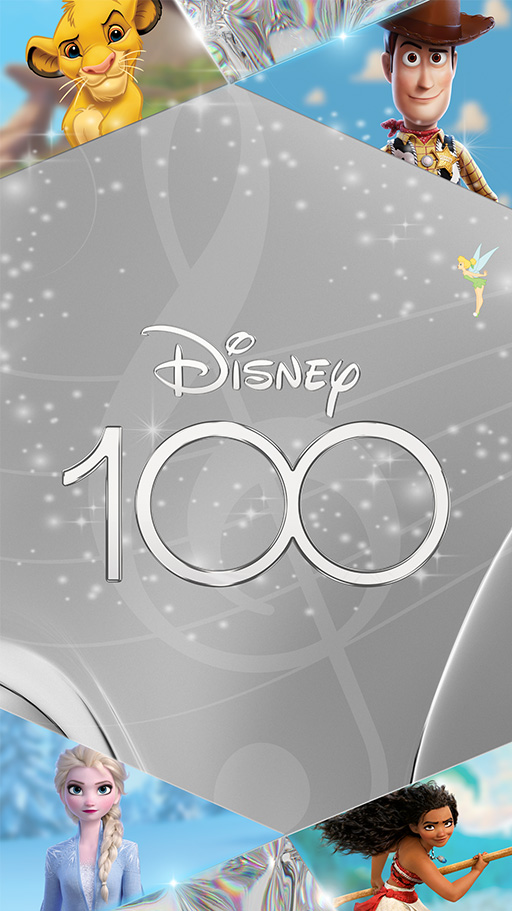
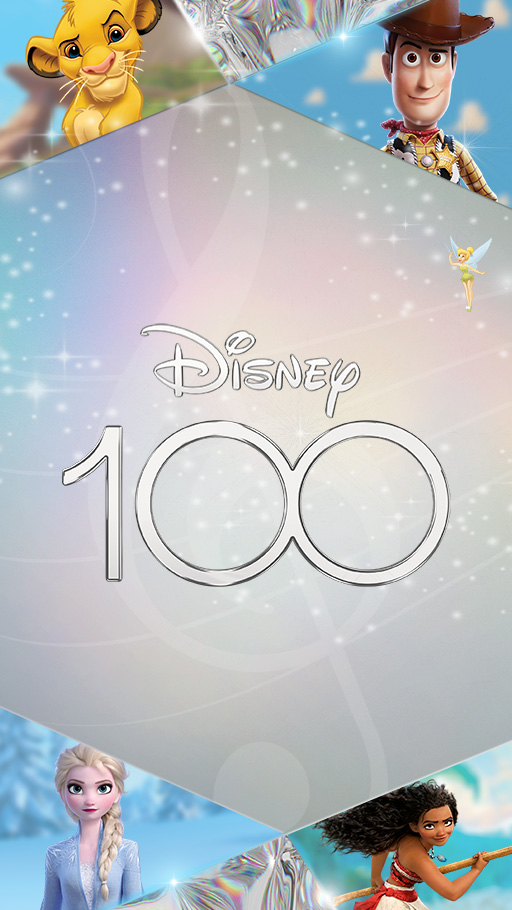
add tinker bell images

diff --git a/_sass/main.scss b/_sass/main.scss
@@ -95,12 +95,58 @@ body {
   }
   &.prize-background{
     background-image: url(../images/bg-prizes.jpg);
+    .scan-new-code{
+      position: relative;
+      &::after{
+        content: url(../images/tinker-bell-wand.png);
+        position: absolute;
+        transform: scale(0.2) scaleX(-1);
+        left: -67px;
+        top: -178px;
+      }
+    }
   }
   &.playlist-background{
     background-image: url(../images/bg-playlist.jpg);
+    .prizes{
+      position: relative;
+      &.share{
+        margin-top: 10vh;
+      }
+      &::after{
+        content: url(../images/tinker-bell-wand.png);
+        position: absolute;
+        transform: scale(0.25);
+        right: -47px;
+        top: -194px;
+      }
+    }
   }
   &.fact-background{
     background-image: url(../images/bg-fact.jpg);
+    .scan-new-code{
+      position: relative;
+      &::after{
+        content: url(../images/tinker-bell-wand.png);
+        position: absolute;
+        transform: scale(0.25);
+        right: -67px;
+        top: -178px;
+      }
+    }
+    &.share{
+      .fact{
+        position: relative;
+        margin-top: 60px;
+        &::after{
+          content: url(../images/tinker-bell.png);
+          position: absolute;
+          transform: scale(0.25);
+          right: -87px;
+          top: -176px;
+        }
+      }
+    }
   }
 }
 .home-layout{
@@ -308,6 +354,8 @@ h1{
     margin-bottom: -12px;
     margin-left: -6px;
     margin-right: -6px;
+    display: flex;
+    flex-flow: column;
     &.plist{
       padding-top:20px;
     }
@@ -322,8 +370,13 @@ h1{
         max-width: 100%;
       }
     }
+    .mickey-divider{
+      max-width: 60%;
+      margin: auto;
+    }
   }
 }
+
 .two-column{
   display: flex;
   margin-top: 20px;

diff --git a/_layouts/fact-share.html b/_layouts/fact-share.html
@@ -1,7 +1,7 @@
 <html>
 {% include head.html %}
 <body>
-    <section class="site-wrapper fact-background">
+    <section class="site-wrapper fact-background share">
         <section class="fact">
             <img class="header-image" src="/assets/images/disney-100-logo.png">
              <p style="color:black; text-align:center; width: 75%;margin:auto;margin-bottom:20px;">Your friend is celebrating Disney 100 Years of Musical Wonder, and wanted to share the magic with you!</p>

diff --git a/prizes-share.md b/prizes-share.md
@@ -14,13 +14,14 @@ bgclass: prize-background
         <div class="two-column">
             <div class="col1">
                 Redeemable online only at:
-                 <a href="https://www.disneymusicemporium.com" target="_blank">www.disneymusicemporium.com</a>
+                 <a href="https://www.disneymusicemporium.com" target="_blank">disneymusicemporium.com</a>
                  <span style="font-size:0.8em;">Hurry! Valid only from 9/12 - 9/18</span>
             </div>
             <div class="col2">
                 <img src="/assets/images/disney-music-emporium.png">
             </div>
         </div>
+        <img class="mickey-divider" src="/assets/images/mickey-divider.png">
         <h2>EXCLUSIVE DOWNLOADS</h2>
         <div class="two-column">
             <div class="col1">

diff --git a/prizes.md b/prizes.md
@@ -14,13 +14,14 @@ bgclass: prize-background
         <div class="two-column">
             <div class="col1">
                 Redeemable online only at:
-                 <a href="https://www.disneymusicemporium.com" target="_blank">www.disneymusicemporium.com</a>
+                 <a href="https://www.disneymusicemporium.com" target="_blank">disneymusicemporium.com</a>
                  <span style="font-size:0.8em;">Hurry! Valid only from 9/12 - 9/18</span>
             </div>
             <div class="col2">
                 <img src="/assets/images/disney-music-emporium.png">
             </div>
         </div>
+        <img class="mickey-divider" src="/assets/images/mickey-divider.png">
         <h2>EXCLUSIVE DOWNLOADS</h2>
         <div class="two-column">
             <div class="col1">

diff --git a/playlists-share.md b/playlists-share.md
@@ -5,7 +5,7 @@ description: All the musical memories from the 100 Years of Music timeline, cura
 bgclass: playlist-background
 ---
 <div style="margin-top:40px;" class="hide-tall"></div>
-<section class="prizes">
+<section class="prizes share">
     <img class="header-image" src="/assets/images/disney-100-logo.png">
     <p style="color:black; text-align:center; width: 75%;margin:auto;margin-bottom:20px;">Your friend is celebrating Disney 100 Years of Musical Wonder, and wanted to share the magic with you!</p>
     <div class="prizes-wrapper plist">

diff --git a/_f/peterpan-share.md b/_f/peterpan-share.md
@@ -1,5 +1,5 @@
 ---
-layout: fact
+layout: fact-share
 year: 1953
 title: Peter Pan
 fact: In 1904, Sir James M. Barrie’s stage play <em>Peter Pan</em> premiered in London. Years later the play made its way to Marceline, Missouri, where a young farm boy and his brother emptied their toy banks to buy tickets. “For two hours we lived in Never Land,” Walt said later, “but the most thrilling of all was the vision of Peter flying through the air.”

diff --git a/_f/mainstreetparade-share.md b/_f/mainstreetparade-share.md
@@ -1,5 +1,5 @@
 ---
-layout: fact
+layout: fact-share
 year: 1972
 title: The Main Street Electrical Parade
 fact: Featuring thousands of sparkling lights and electro-synthe-magnetic musical sounds, this was the most elaborate and technically complicated parade ever conceived at the time. “Baroque Hoedown,” by electronic music pioneers Jean Jacques Perrey and Gershon Kingsley, is the underlying melody, with Disney standards woven throughout.

diff --git a/_f/pooh-share.md b/_f/pooh-share.md
@@ -1,5 +1,5 @@
 ---
-layout: fact
+layout: fact-share
 year: 1966
 title: Winnie the Pooh and the Honey Tree
 fact: Initially, the Sherman Brothers had trouble finding inspiration in <em>Winnie the Pooh</em>. But when they mentioned this to designer Tony Walton, English-born Walton lit up and shared his fondest childhood memories of Pooh. By the end, the Shermans were sold, and stayed true to the charm of A.A. Milne in their songs. 

diff --git a/_f/dalmatians-share.md b/_f/dalmatians-share.md
@@ -1,5 +1,5 @@
 ---
-layout: fact
+layout: fact-share
 year: 1961
 title: 101 Dalmatians
 fact: <em>101 Dalmatians</em> debuted a new animation process. Animators typically provided cleaned-up sketches to a team that traced those drawings onto cels with ink. With <em>Dalmations</em>, animators photocopied drawings directly onto cels, cutting production time by one-third, and giving the film its unique look.

diff --git a/_f/ladyandtramp-share.md b/_f/ladyandtramp-share.md
@@ -1,5 +1,5 @@
 ---
-layout: fact
+layout: fact-share
 year: 1955
 title: Lady and the Tramp
 fact: Legend has it that Walt gave his bride, Lillian, a puppy in a hatbox to apologize for missing a date. The story department was so moved that they wanted to make a short based on the event. That short evolved into the 1955 film "Lady and the Tramp".

diff --git a/_f/dumbo-share.md b/_f/dumbo-share.md
@@ -1,5 +1,5 @@
 ---
-layout: fact
+layout: fact-share
 year: 1941
 title: Dumbo
 fact: Walt wasn't initially interested in <em>Dumbo</em>, but his persistent team left a new installment of the story on his desk daily. Eventually Walt showed up at a story meeting, remarking, “This is great! What happens tomorrow?”

diff --git a/_f/fantasia-share.md b/_f/fantasia-share.md
@@ -1,5 +1,5 @@
 ---
-layout: fact
+layout: fact-share
 year: 
 title: Fantasia
 fact: 'While in production, Fantasia was so unusual a concept, no one knew what to title it and simply referred to it as "The Concert Film." A naming contest among the staff finally gave the film its now familiar title: Fantasia.'
